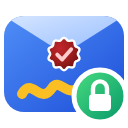
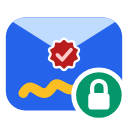
Symbol des Gateways flach: Verläufe raus, Schloss-Ring nicht mehr angeschnitten
favicon.svg ist die eine Quelle für Favicon, apple-touch-icon, Add-in- und
Teams-Symbole (tools/symbole_rendern.py) und jetzt auch für das Logo im
Azure Marketplace. Die Doku zur Azure Application („Plan an Azure Application
offer“, Logo-Richtlinien) verbietet Farbverläufe in Logo und Hintergrund und
droht bei unscharfen Bildern mit Ablehnung. Die vier Verläufe (env, flap,
lock, wachs) sind durch je eine volle Farbe aus der Mitte des Verlaufs
ersetzt: #2563eb, #bfdbfe, #059669, #b91c1c.

viewBox 0 0 64 64 → -1 -1 66 66: Kreis des Schlosses cx=50 r=13 mit
stroke-width 2.5 reicht bis 64,25 und wurde rechts gerade abgeschnitten
(beim Rendern in 350 px sichtbar). Der Rand verkleinert das Motiv um ~3 %.

Folge mit Absicht: _symbol_abdruck() hasht die gerenderten PNGs, also
steigt die Manifest-Version beider Add-ins und des Teams-Pakets (Mechanismus
seit v1.9.185). Betreiber müssen die Add-ins im Admin Center aktualisieren;
das steht als Zu tun im Changelog. Abgewogen und vom Nutzer so entschieden.

login-logo.svg (eigene animierte Zeichnung, mit Verläufen und Schatten)
bleibt bewusst unverändert.

Suchlauf nach weiteren Kopien des alten Symbols: SHA-256 von symbol/192,
symbol/32, favicon.ico, apple-touch-icon im HEAD gegen alle versionierten
Dateien: keine weitere Kopie. Verläufe gibt es sonst nur in login-logo.svg.

Claude-Session: https://claude.ai/code/session_01K6r3LAopCWftoAm6U5WbiW

diff --git a/CHANGELOG.md b/CHANGELOG.md
@@ -5,6 +5,26 @@ Wichtige Bugfixes werden mit Ursache dokumentiert.
 
 ---
 
+## v1.10.71 — 2026-11-06 — Symbol des Gateways ohne Farbverläufe
+
+- Das Zeichen des Gateways (Umschlag, Signaturschwung, Siegel, Schloss) hat
+  jetzt volle Farben statt der vier Farbverläufe. Der Azure Marketplace lehnt
+  Logos mit Verlauf ab, und das Angebots-Logo entsteht aus derselben Datei.
+- Der weiße Ring um das Schloss war am rechten Rand um eine Viertel-Einheit
+  abgeschnitten. Das Bildfeld hat jetzt einen Rand, der Ring ist vollständig.
+- Neu gerendert sind Favicon, das Symbol für den iOS-Home-Bildschirm, die
+  Symbole beider Outlook-Add-ins und die der Teams-App.
+- Die Anmeldeseite behält ihre eigene, animierte Zeichnung.
+
+**Zu tun:** Weil sich das Symbol geändert hat, steigt die Fassung beider
+Outlook-Add-ins und der Teams-App. Aktualisiere die Add-ins im Admin Center:
+*Einstellungen → Integrierte Apps* → jeweils das Add-in öffnen →
+**Aktualisieren**. Bis dahin meldet der Postfach-Status die Add-in-Fassung als
+veraltet. Für das neue Symbol der Teams-App lade das App-Paket neu herunter
+(*Einrichtung → Outlook Add-in → App-Paket herunterladen (.zip)*) und lade es
+unter *Integrierte Apps* hoch. Das ist optional, die App funktioniert auch mit
+dem alten Symbol.
+
 ## v1.10.70 — 2026-11-06 — Baukasten: Tausch eines eingebetteten Logos gibt den Speichern-Knopf frei
 
 - Wer im Signatur-Baukasten ein eingebettetes Logo gegen ein anderes tauschte,
